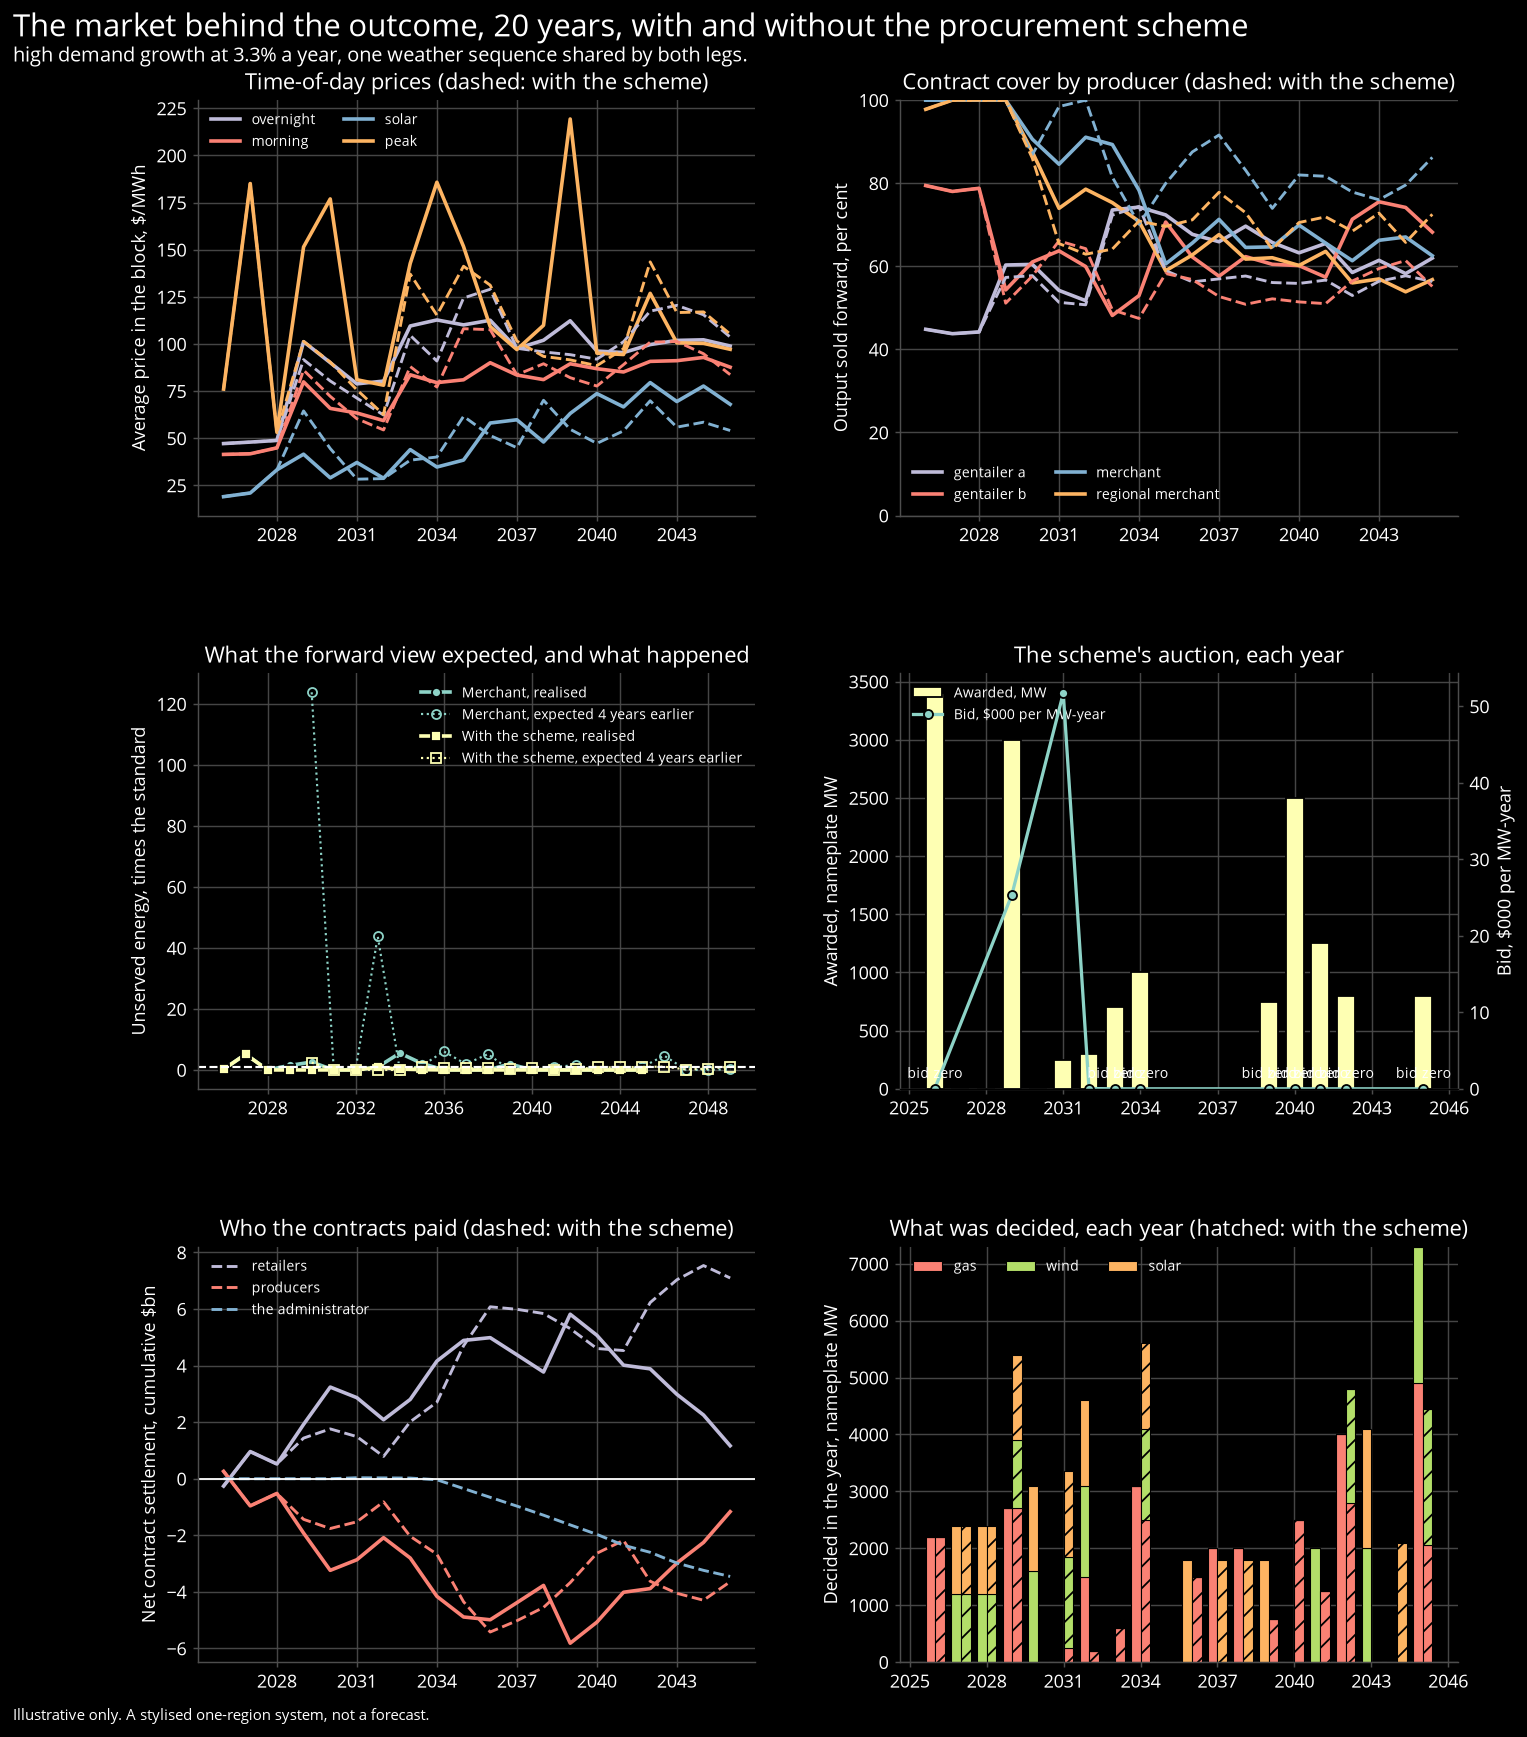
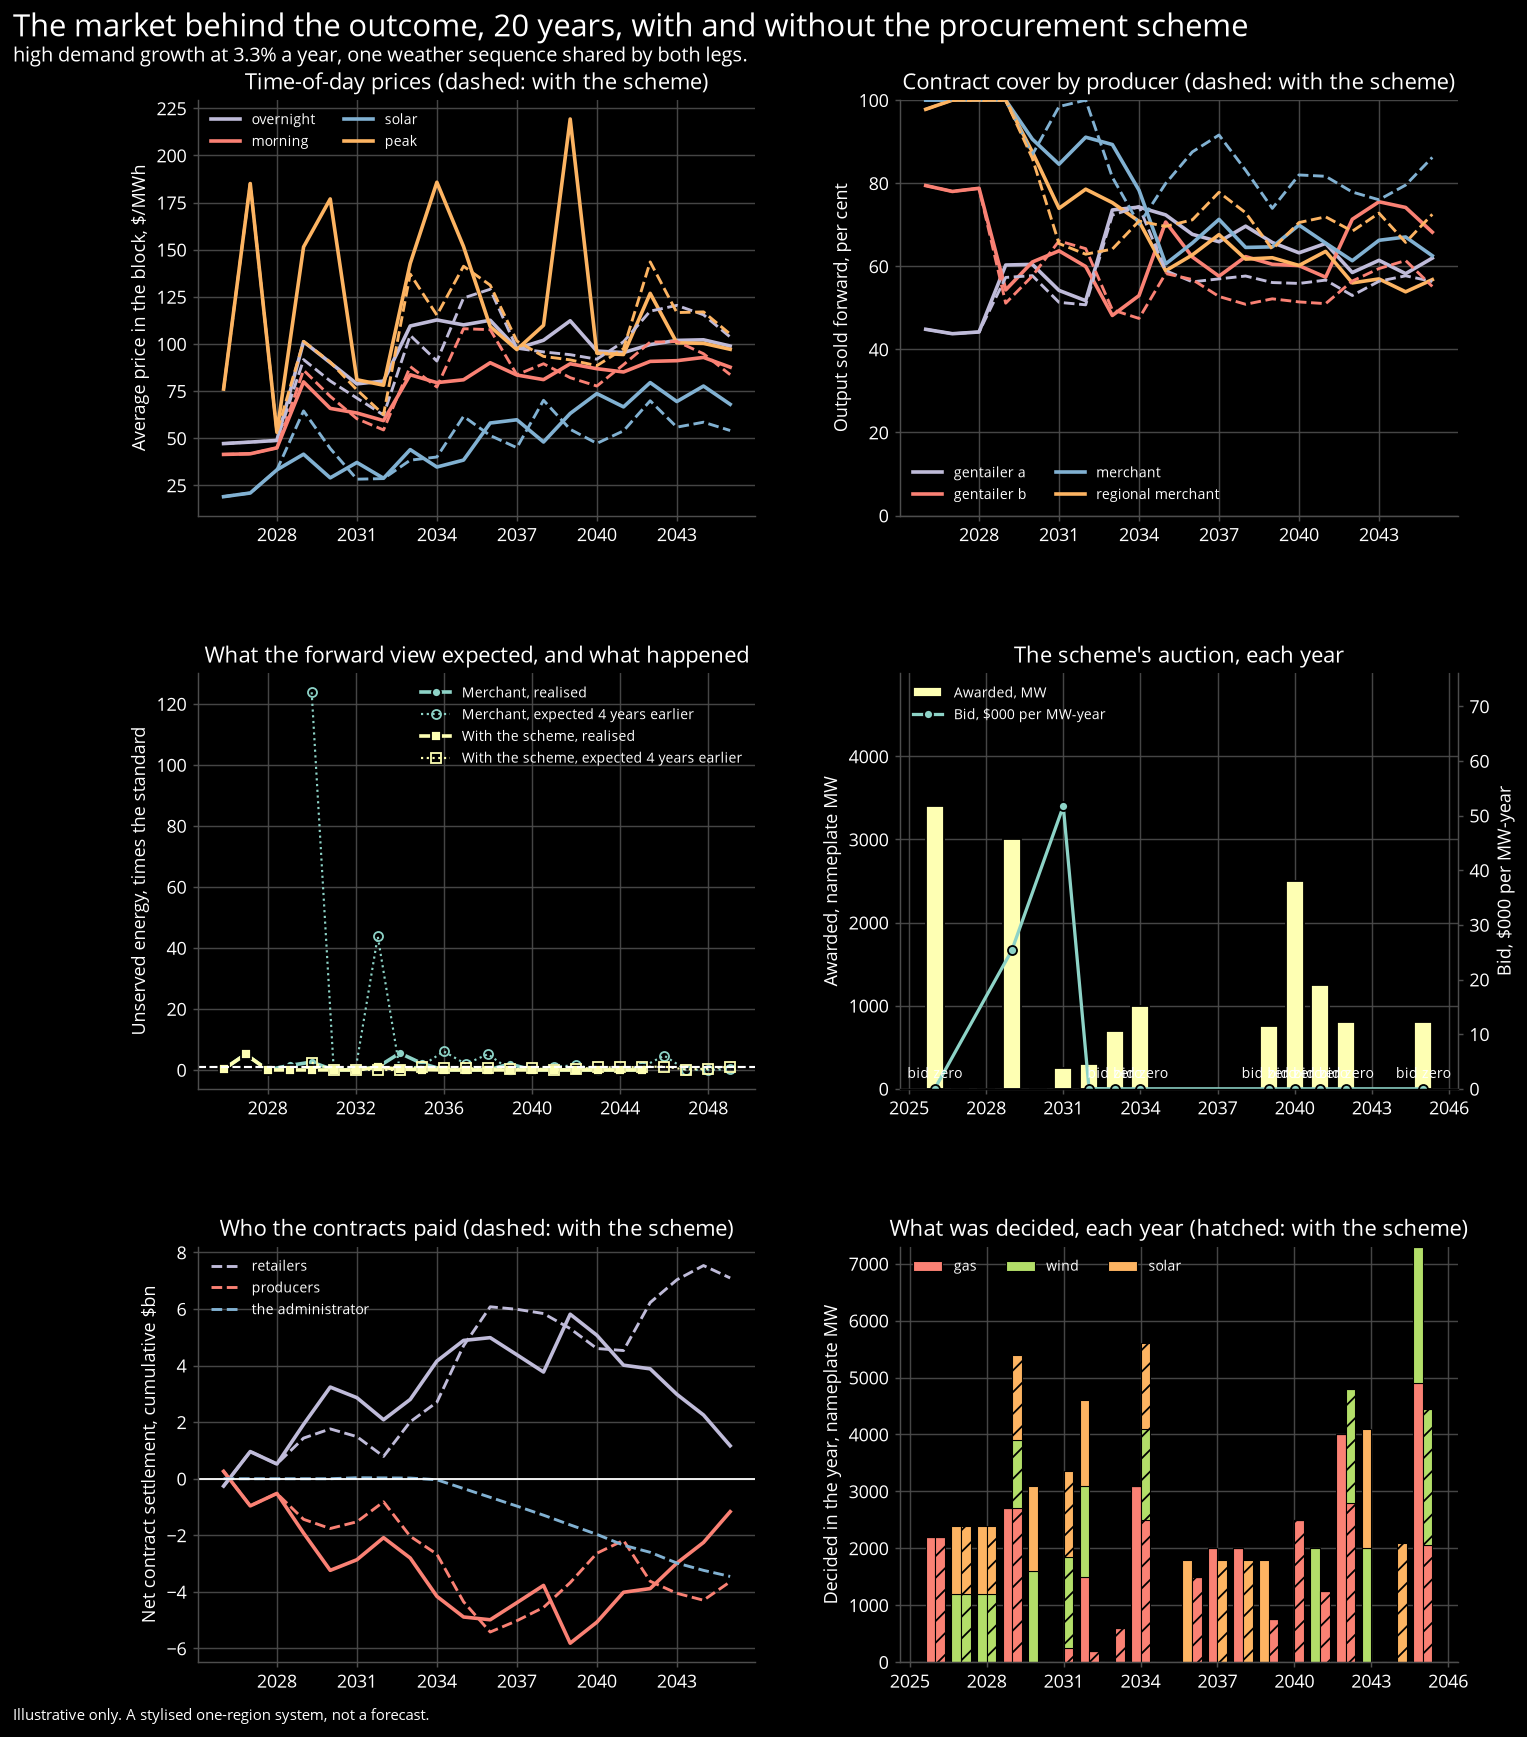
The auction panel's legend sits above the first year's bar, not on it
On the canonical 20-year pair the legend in the market view's auction panel
covered the 2026 award bar. Both axes now carry headroom, so the legend clears
the bars and the bid line. Only the two market view images change.

diff --git a/src/esem_sandbox/plots.py b/src/esem_sandbox/plots.py
@@ -685,7 +685,11 @@ def _panel_auction(ax, esem) -> None:
     for y in zero_years:
         ax2.annotate("bid zero", (y, 0), textcoords="offset points", xytext=(0, 6),
                      ha="center", fontsize=7.5, color=INK_2)
-    ax2.set_ylim(bottom=0)
+    # Headroom on both axes, so the legend sits above the first year's bar and
+    # the bid line rather than on them.
+    for axis in (ax, ax2):
+        lo, hi = axis.get_ylim()
+        axis.set_ylim(0, max(hi, 1e-9) * 1.4)
     ax2.set_ylabel("Bid, \\$000 per MW-year")
     titled(ax, "The scheme's auction, each year")
     _years(ax)
